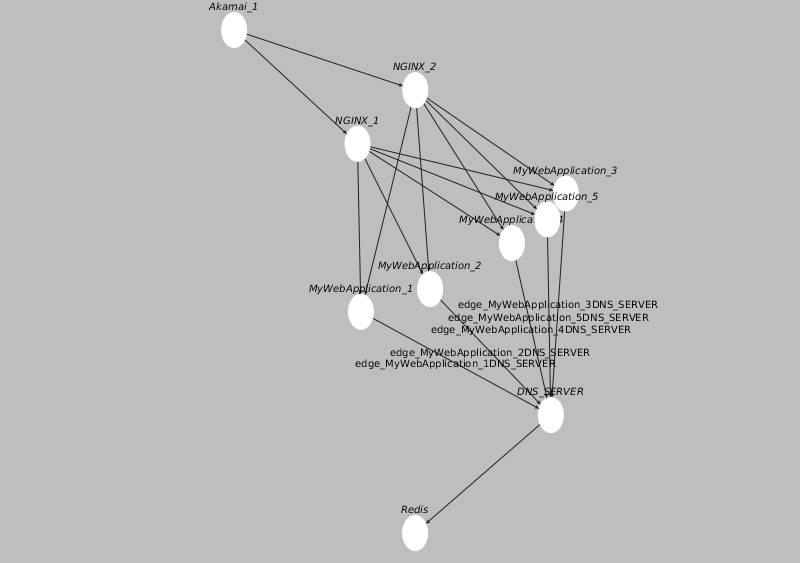
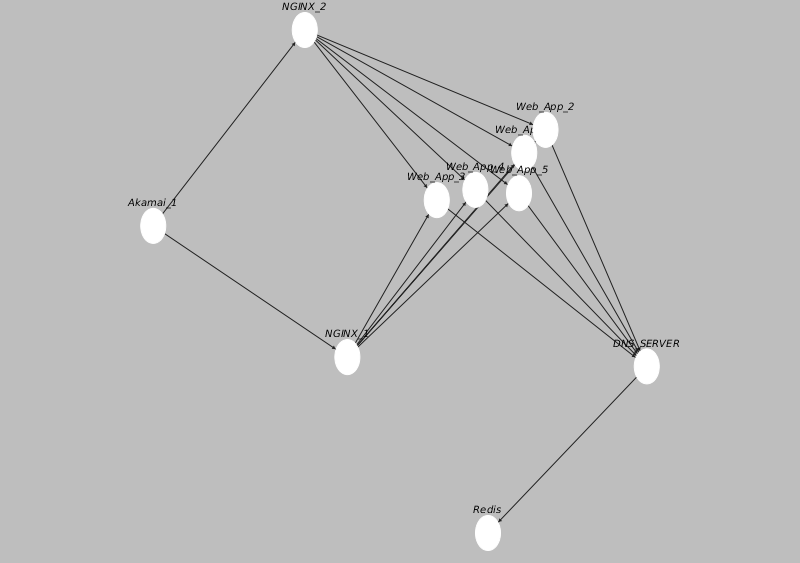
adding a couple of tests to verify the code. code needs to be refactored further. we are currently at integration test layer.

diff --git a/src/main/kotlin/org/slug/MicroserviceGenerator.kt b/src/main/kotlin/org/slug/MicroserviceGenerator.kt
@@ -24,19 +24,15 @@ class MicroserviceGenerator(val architecture: Microservice) : SourceBase(), Gene
             return
         }
 
-        for ((first, second) in Companion.layerZipper(architecture.layers)) {
+        for ((first, second) in layerZipper(architecture.layers)) {
             createLinkLayers(first.component, first.spatialRedundancy, second.component, second.spatialRedundancy)
         }
     }
 
     private fun createLinkLayers(firstLayerComponent: Component, firstLayerRedundancy: Int, secondLayerComponent: Component, secondLayerRedundancy: Int) {
 
-        println(firstLayerComponent)
-        println(secondLayerComponent)
         val froms = addComponent(firstLayerComponent, firstLayerRedundancy)
-        froms.forEach(::println)
         val tos = addComponent(secondLayerComponent, secondLayerRedundancy)
-        tos.forEach(::println)
         createLink(firstLayerComponent, froms, secondLayerRedundancy, tos)
     }
 
@@ -48,7 +44,7 @@ class MicroserviceGenerator(val architecture: Microservice) : SourceBase(), Gene
                 for (r in 1..redundancy) {
                     val nodeIdentifier = createIdentifier(component.type.identifier, r)
                     nodes = nodes.plus(nodeIdentifier)
-                    Companion.createNode(this, nodeIdentifier)
+                    createNode(this, nodeIdentifier)
                 }
             }
             is DiscoverableComponent -> {
@@ -57,11 +53,11 @@ class MicroserviceGenerator(val architecture: Microservice) : SourceBase(), Gene
                 for (r in 1..redundancy) {
                     val nodeIdentifier = createIdentifier(component.type.identifier, r)
                     nodes = nodes.plus(nodeIdentifier)
-                    Companion.createNode(this, nodeIdentifier)
-                    Companion.createEdge(this, component, nodeIdentifier)
+                    createNode(this, nodeIdentifier)
+                    createEdge(this, component, nodeIdentifier)
                 }
                 createNode(this, component.connection.to.identifier)
-                Companion.createEdge(this, component)
+                createEdge(this, component)
             }
         }
         createdNodes = createdNodes.plus(nodes)
@@ -88,37 +84,43 @@ class MicroserviceGenerator(val architecture: Microservice) : SourceBase(), Gene
         }
     }
 
-    private companion object {
-        var createdNodes: Sequence<String> = emptySequence()
-
-        fun createNode(microserviceGenerator: MicroserviceGenerator, nodeIdentifier: String) {
-            if (!createdNodes.contains(nodeIdentifier)) {
-                microserviceGenerator.sendNodeAdded(microserviceGenerator.sourceId, nodeIdentifier)
-                microserviceGenerator.sendNodeAttributeAdded(microserviceGenerator.sourceId, nodeIdentifier, "ui.label", nodeIdentifier)
-            }
+    fun createNode(microserviceGenerator: MicroserviceGenerator, nodeIdentifier: String) {
+        if (!createdNodes.contains(nodeIdentifier)) {
+            println("creating node " + nodeIdentifier)
+            microserviceGenerator.sendNodeAdded(microserviceGenerator.sourceId, nodeIdentifier)
+            microserviceGenerator.sendNodeAttributeAdded(microserviceGenerator.sourceId, nodeIdentifier, "ui.label", nodeIdentifier)
         }
-
-        fun createEdge(microserviceGenerator: MicroserviceGenerator, from: String, to: String) {
-            val edgeId = "edge_" + from + to
-            microserviceGenerator.sendEdgeAdded(microserviceGenerator.sourceId, edgeId, from, to, true)
-//            microserviceGenerator.sendEdgeAttributeAdded(microserviceGenerator.sourceId, edgeId, "ui.label", edgeId)
-        }
-
-        fun createEdge(microserviceGenerator: MicroserviceGenerator, component: DiscoverableComponent, nodeIdentifier: String) {
-            val edgeId = "edge_" + nodeIdentifier + component.connection.via.identifier
-            microserviceGenerator.sendEdgeAdded(microserviceGenerator.sourceId, edgeId, nodeIdentifier, component.connection.via.identifier, true)
-//            microserviceGenerator.sendEdgeAttributeAdded(microserviceGenerator.sourceId, edgeId, "ui.label", edgeId)
-        }
-
-        fun createEdge(microserviceGenerator: MicroserviceGenerator, component: DiscoverableComponent) {
-            val edgeId = "edge_" + component.connection.via.identifier + component.connection.to.identifier
-            microserviceGenerator.sendEdgeAdded(microserviceGenerator.sourceId, edgeId, component.connection.via.identifier, component.connection.to.identifier, true)
-//            microserviceGenerator.sendEdgeAttributeAdded(microserviceGenerator.sourceId, edgeId, "ui.label", edgeId)
-        }
-
-        fun createIdentifier(identifier: String, append: Int) = identifier + "_" + append
-
-        fun layerZipper(sequence: Sequence<Layer>): Sequence<Pair<Layer, Layer>> =
-                if (sequence.count() == 2) sequenceOf(Pair(sequence.first(), sequence.last())) else sequence.zip(sequence.drop(1))
     }
+
+    fun createEdge(microserviceGenerator: MicroserviceGenerator, from: String, to: String) {
+        val edgeId = from + separator + to
+        println("creating edge " + edgeId)
+        microserviceGenerator.sendEdgeAdded(microserviceGenerator.sourceId, edgeId, from, to, true)
+//            microserviceGenerator.sendEdgeAttributeAdded(microserviceGenerator.sourceId, edgeId, "ui.label", edgeId)
+    }
+
+    fun createEdge(microserviceGenerator: MicroserviceGenerator, component: DiscoverableComponent, nodeIdentifier: String) {
+        val edgeId = nodeIdentifier + separator + component.connection.via.identifier
+        println("creating edge " + edgeId)
+        microserviceGenerator.sendEdgeAdded(microserviceGenerator.sourceId, edgeId, nodeIdentifier, component.connection.via.identifier, true)
+//            microserviceGenerator.sendEdgeAttributeAdded(microserviceGenerator.sourceId, edgeId, "ui.label", edgeId)
+    }
+
+    fun createEdge(microserviceGenerator: MicroserviceGenerator, component: DiscoverableComponent) {
+        val edgeId =  component.connection.via.identifier + separator + component.connection.to.identifier
+        println("creating edge " + edgeId)
+        microserviceGenerator.sendEdgeAdded(microserviceGenerator.sourceId, edgeId, component.connection.via.identifier, component.connection.to.identifier, true)
+//            microserviceGenerator.sendEdgeAttributeAdded(microserviceGenerator.sourceId, edgeId, "ui.label", edgeId)
+    }
+
+    val separator: String = "->"
+    val node_separator : String = "_"
+
+    fun createIdentifier(identifier: String, append: Int) = identifier + node_separator + append
+
+    fun layerZipper(sequence: Sequence<Layer>) =
+            if (sequence.count() == 2) sequenceOf(Pair(sequence.first(), sequence.last()))
+            else sequence.zip(sequence.drop(1))
+
+    var createdNodes: Sequence<String> = emptySequence()
 }

diff --git a/src/test/kotlin/org/slug/MicroserviceGeneratorTest.kt b/src/test/kotlin/org/slug/MicroserviceGeneratorTest.kt
@@ -1,0 +1,70 @@
+package org.slug
+
+import org.graphstream.graph.implementations.SingleGraph
+import org.junit.Assert.assertEquals
+import org.junit.Test
+import org.slug.InfrastructureType.*
+import org.slug.LayerConnection.*
+import org.slug.Component.*
+
+
+class MicroserviceGeneratorTest {
+
+    @Test
+    fun generatorShouldAddAllTheComponentsInTheArchitecture() {
+        val proxy = Proxy("NGINX")
+        val webApplication = WebApplication("MyWebApplication")
+        val proxy2Web = Proxy2WebApplication(proxy, webApplication, 1)
+        val simpleComponent = SimpleComponent(proxy, proxy2Web)
+        val proxyLayer = Layer("1", 2, simpleComponent)
+
+        val database = Database("Redis")
+        val serviceDiscovery = ServiceDiscovery("DNS_SERVER")
+        val layerConnection = ServiceDiscoveryIndirection(webApplication, serviceDiscovery, database)
+        val discoverableComponent = DiscoverableComponent(webApplication, layerConnection)
+        val webLayer = Layer("2", 5, discoverableComponent)
+
+        val microservice = Microservice(sequenceOf(proxyLayer, webLayer))
+        val generator = MicroserviceGenerator(microservice)
+        val graph = SingleGraph("First")
+        generator.addSink(graph)
+        generator.begin()
+        generator.end()
+
+        assertEquals(9,graph.nodeCount)
+        assertEquals(16,graph.edgeCount)
+
+    }
+
+    @Test
+    fun generatorShouldCreateLinksBetweenTheSpecifiedLayers(){
+        val cdn = CDN("Akamai")
+        val firewall = Firewall("Juniper")
+        val cdn2Proxy = CDN2Firewall(cdn, firewall, 2)
+        val cdnComponent = SimpleComponent(cdn, cdn2Proxy)
+        val cdnLayer = Layer("1", 1, cdnComponent)
+
+        val proxy = Proxy("NGINX")
+        val webApplication = WebApplication("MyWebApplication")
+        val proxy2Web = Proxy2WebApplication(proxy, webApplication, 1)
+        val proxyComponent = SimpleComponent(proxy, proxy2Web)
+        val proxyLayer = Layer("2", 2, proxyComponent)
+
+        val database = Database("Redis")
+        val serviceDiscovery = ServiceDiscovery("DNS_SERVER")
+        val layerConnection = ServiceDiscoveryIndirection(webApplication, serviceDiscovery, database)
+        val discoverableComponent = DiscoverableComponent(webApplication, layerConnection)
+        val webLayer = Layer("3", 5, discoverableComponent)
+
+        val microservice = Microservice(sequenceOf(cdnLayer, proxyLayer, webLayer))
+        val generator = MicroserviceGenerator(microservice)
+        val graph = SingleGraph("First")
+        generator.addSink(graph)
+        generator.begin()
+        generator.end()
+
+        assertEquals(10,graph.nodeCount)
+        assertEquals(18,graph.edgeCount)
+    }
+
+}

diff --git a/src/main/kotlin/org/slug/MicroserviceFactory.kt b/src/main/kotlin/org/slug/MicroserviceFactory.kt
@@ -30,7 +30,7 @@ fun architectureFactoryWith3Layers(): MicroserviceGenerator {
     val cdnLayer = Layer("1", 1, cdnComponent)
 
     val proxy = Proxy("NGINX")
-    val webApplication = WebApplication("MyWebApplication")
+    val webApplication = WebApplication("Web_App")
     val proxy2Web = Proxy2WebApplication(proxy, webApplication, 1)
     val proxyComponent = SimpleComponent(proxy, proxy2Web)
     val proxyLayer = Layer("2", 2, proxyComponent)

diff --git a/src/test/kotlin/org/slug/AlgebraTest.kt b/src/test/kotlin/org/slug/AlgebraTest.kt
@@ -8,7 +8,7 @@ import org.slug.InfrastructureType.*
 import org.slug.LayerConnection.Proxy2WebApplication
 import org.slug.LayerConnection.ServiceDiscoveryIndirection
 
-class TestAlgebra {
+class AlgebraTest {
 
     @Test
     fun createAnArchitectureWith2Layers() {
